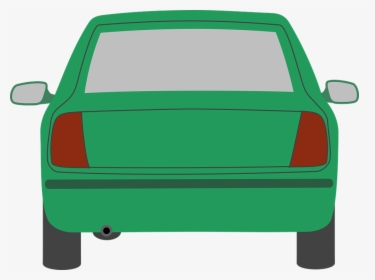
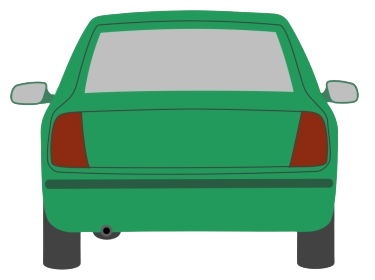
removed background on images

diff --git a/Minigame.py b/Minigame.py
@@ -14,7 +14,7 @@ class Minigame(ABC):
     #May need to check if image name doesn't exist
     def loadImages(self, listOfImageNames):
         for name in listOfImageNames:
-            self.imageSet.update({name[0:-4] : pg.image.load(os.path.join('Assets', name)).convert()})
+            self.imageSet.update({name[0:-4] : pg.image.load(os.path.join('Assets', name)).convert_alpha()})
 
     #Automatically checks if image is loaded and does global scaling itself, manual scaling still present
     def initScaleImage(self, name, manWidth, manHeight):

diff --git a/Car_Minigame.py b/Car_Minigame.py
@@ -16,7 +16,7 @@ class Car_Minigame(Minigame):
 
         #Simply list the names of the files you want to load, will auto load them for you, named after their file name sans file type
         self.imageSet = {};
-        self.loadImages(['car.png', 'Cactus_Short.jpg', 'Cactus_Tall.png', 'road.png']);
+        self.loadImages(['car.png', 'Cactus_Short.png', 'Cactus_Tall.png', 'road.png']);
         self.transformImages();
 
         self.CURRENT_POS = 0;
